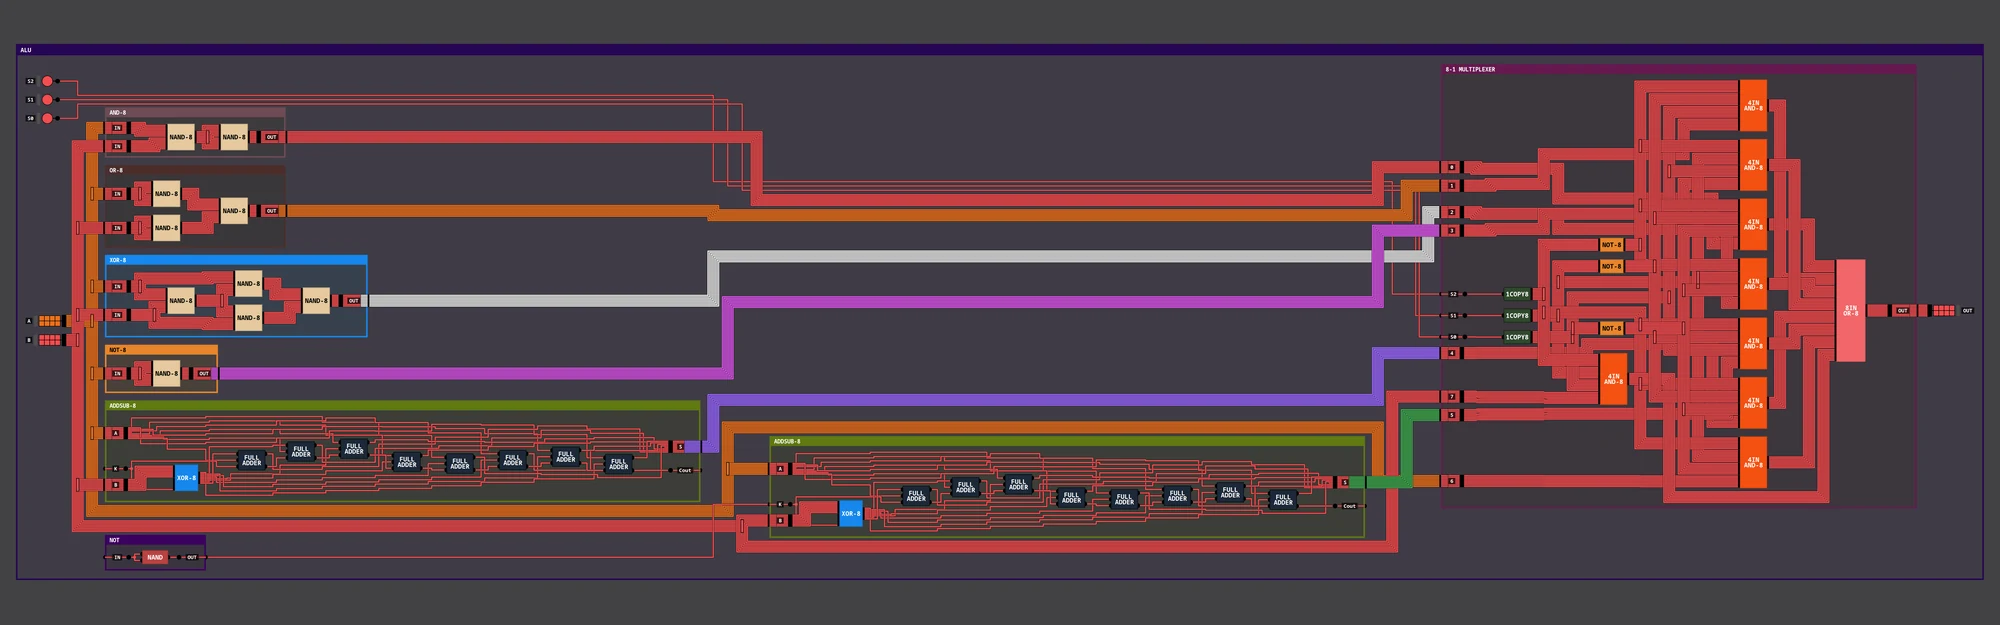
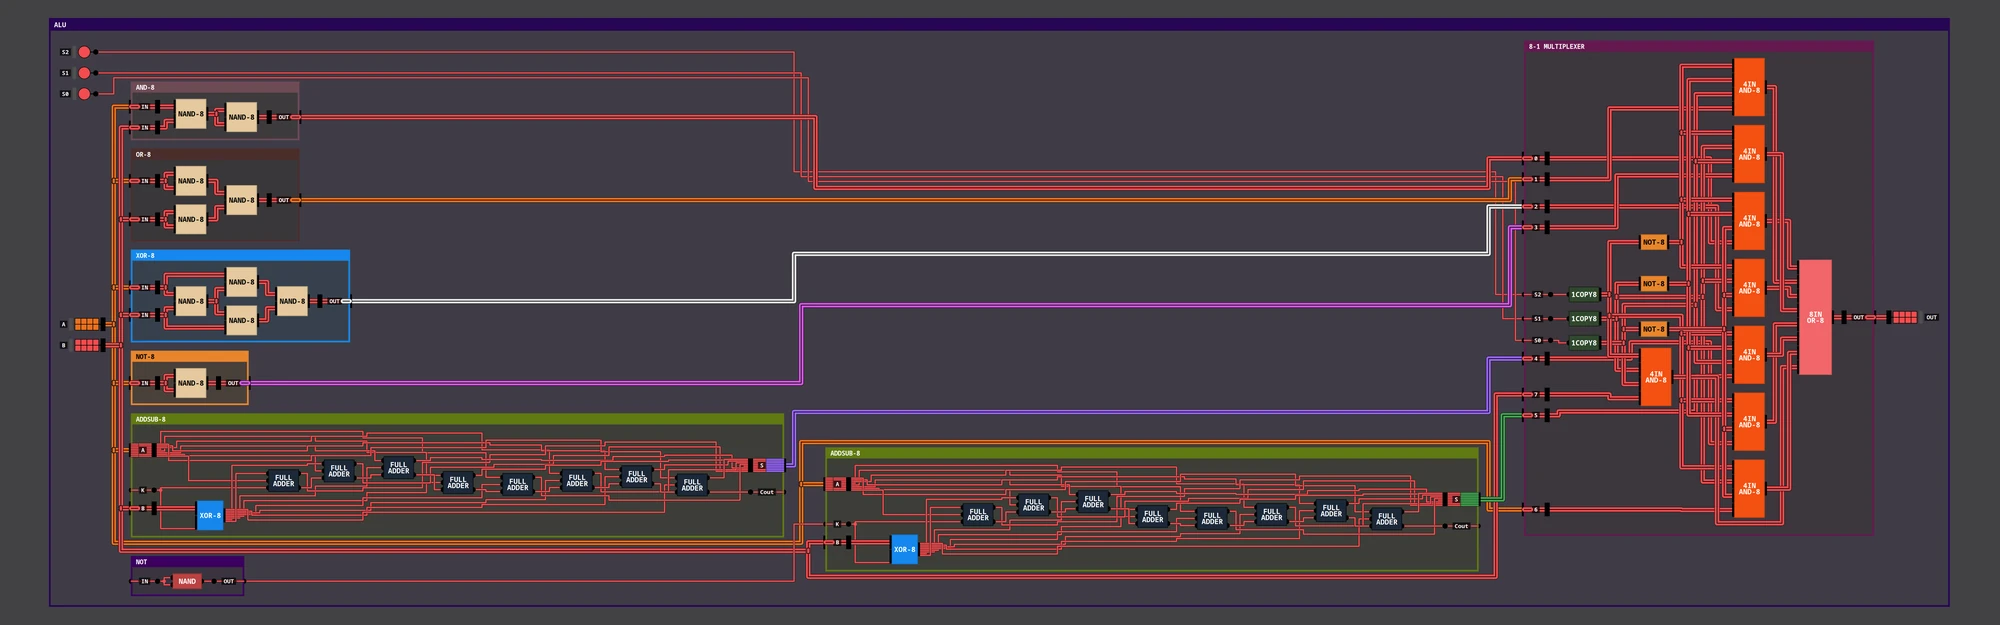
DLS Image Exporter: auto layout is now the default for both modes
Update the page to match the tool's README (auto layout for circuit images
too, solid buses, straightening, cost-aware row wrapping) and regenerate the
ALU banner with the new renderer.

diff --git a/content/tools/dls-image-exporter/index.md b/content/tools/dls-image-exporter/index.md
@@ -1,6 +1,6 @@
 ---
 title: DLS Image Exporter
-description: Exports every chip I've built in Digital Logic Sim as an image, either as laid out in the editor or opened up all the way down to its NAND gates, with an automatic layout that keeps the gates readable.
+description: Exports every chip I've built in Digital Logic Sim as an image, either on its own or opened up all the way down to its NAND gates, with an automatic layout that keeps the circuits easy to follow and the gates readable.
 bannerAlt: "An auto-layout export of my ALU chip with each sub-chip opened one level: AND-8, OR-8, XOR-8, NOT-8, two ADDSUB-8 adders and the 8-to-1 multiplexer, each in its own bordered frame"
 order: 50
 ---
@@ -18,28 +18,33 @@ needs no mods.
 
 | Mode | What it shows |
 | --- | --- |
-| Circuit | The inside of each chip, as I laid it out in the editor |
+| Circuit | The inside of each chip |
 | Expanded | Every custom sub-chip opened up in place, recursively. Each one becomes a bordered frame, titled with the chip's name, holding its own inner circuit |
 
 ## The auto layout
 
-Opened up in place, a big chip spends most of its area on empty space. The auto layout,
-the default for expanded images, rearranges the parts and re-routes the wires instead:
+Both modes use the auto layout by default. It rearranges the parts and re-routes the
+wires so each circuit is easy to follow, and an opened-up chip takes far less space than
+it would with the editor layout:
 
 - Each chip's parts go in columns by signal flow, inputs on the left and outputs on the
   right. Feedback loops, as in latches, are routed back around.
 - Parts are ordered to reduce wire crossings and lined up with whatever drives them, so
-  most wires run straight.
+  most wires run straight. Parts are then nudged wherever there's room so more wires
+  run dead level instead of taking small jogs.
 - Wires run horizontally and vertically through the gaps between columns, each vertical
   run on its own track, and dots mark where a wire branches.
-- Bit splitters and mergers are left out. A bus is drawn as one wire per bit, close
-  together and in bit order (highest bit on top, as the game lays out bus pins), and each
-  bit peels off on its own toward where it goes. Single-bit wires join a bus at a
+- Bit splitters and mergers are left out. A bus whose bits all go to the same place is
+  one thick wire. Where a bus splits up, it's drawn as one wire per bit, close together
+  and in bit order (highest bit on top, as the game lays out bus pins), and each bit
+  peels off on its own toward where it goes. Single-bit wires join a bus at a
   multi-bit pin in the same order. Each wire is traced through the splitters to the pin
   that really drives it.
-- A layout much wider than the target shape wraps into rows, and every wire is still
+- A layout much wider than the target shape can wrap into rows, and every wire is still
   drawn whole: a wire crossing a row break runs down the right edge of its row, back
-  along its own lane in the gap between rows, and into the next row.
+  along its own lane in the gap between rows, and into the next row. A layout only wraps
+  when the better shape outweighs those looping wires, so a small chip whose wires
+  mostly cross the break stays in one long row.
 
 The other layout keeps my own placement and wire bends, and stretches the space around
 each opened chip to make room.
